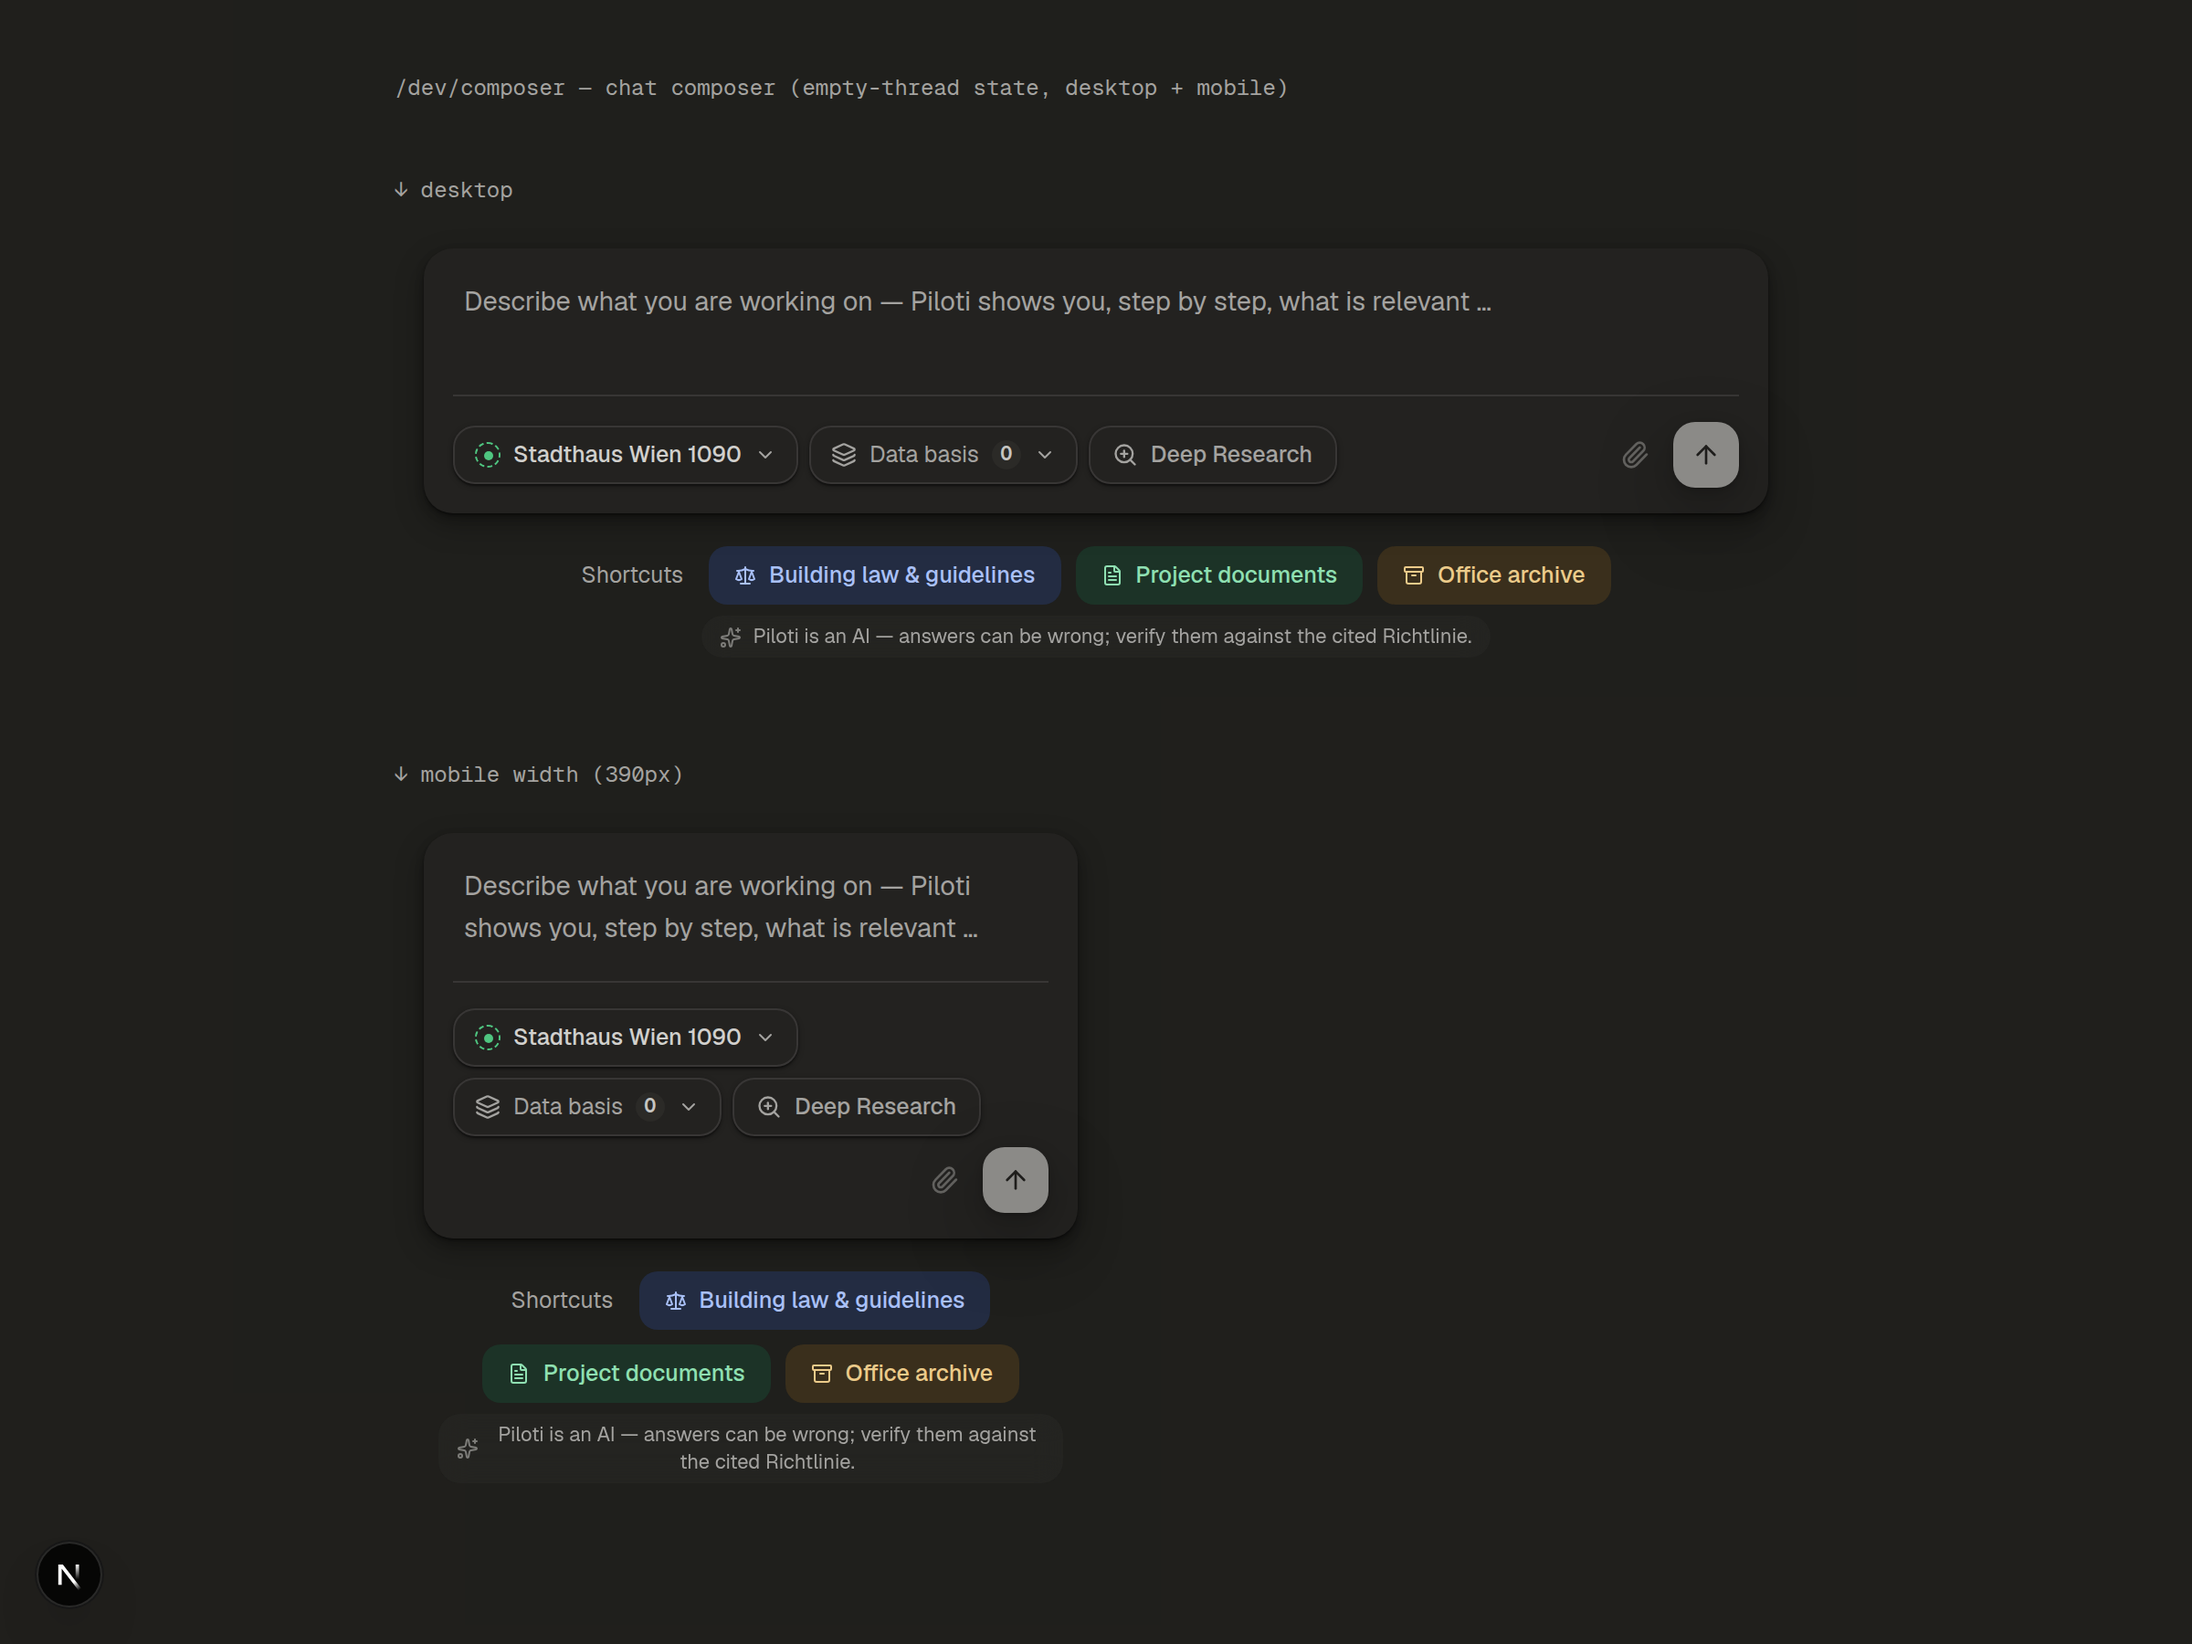
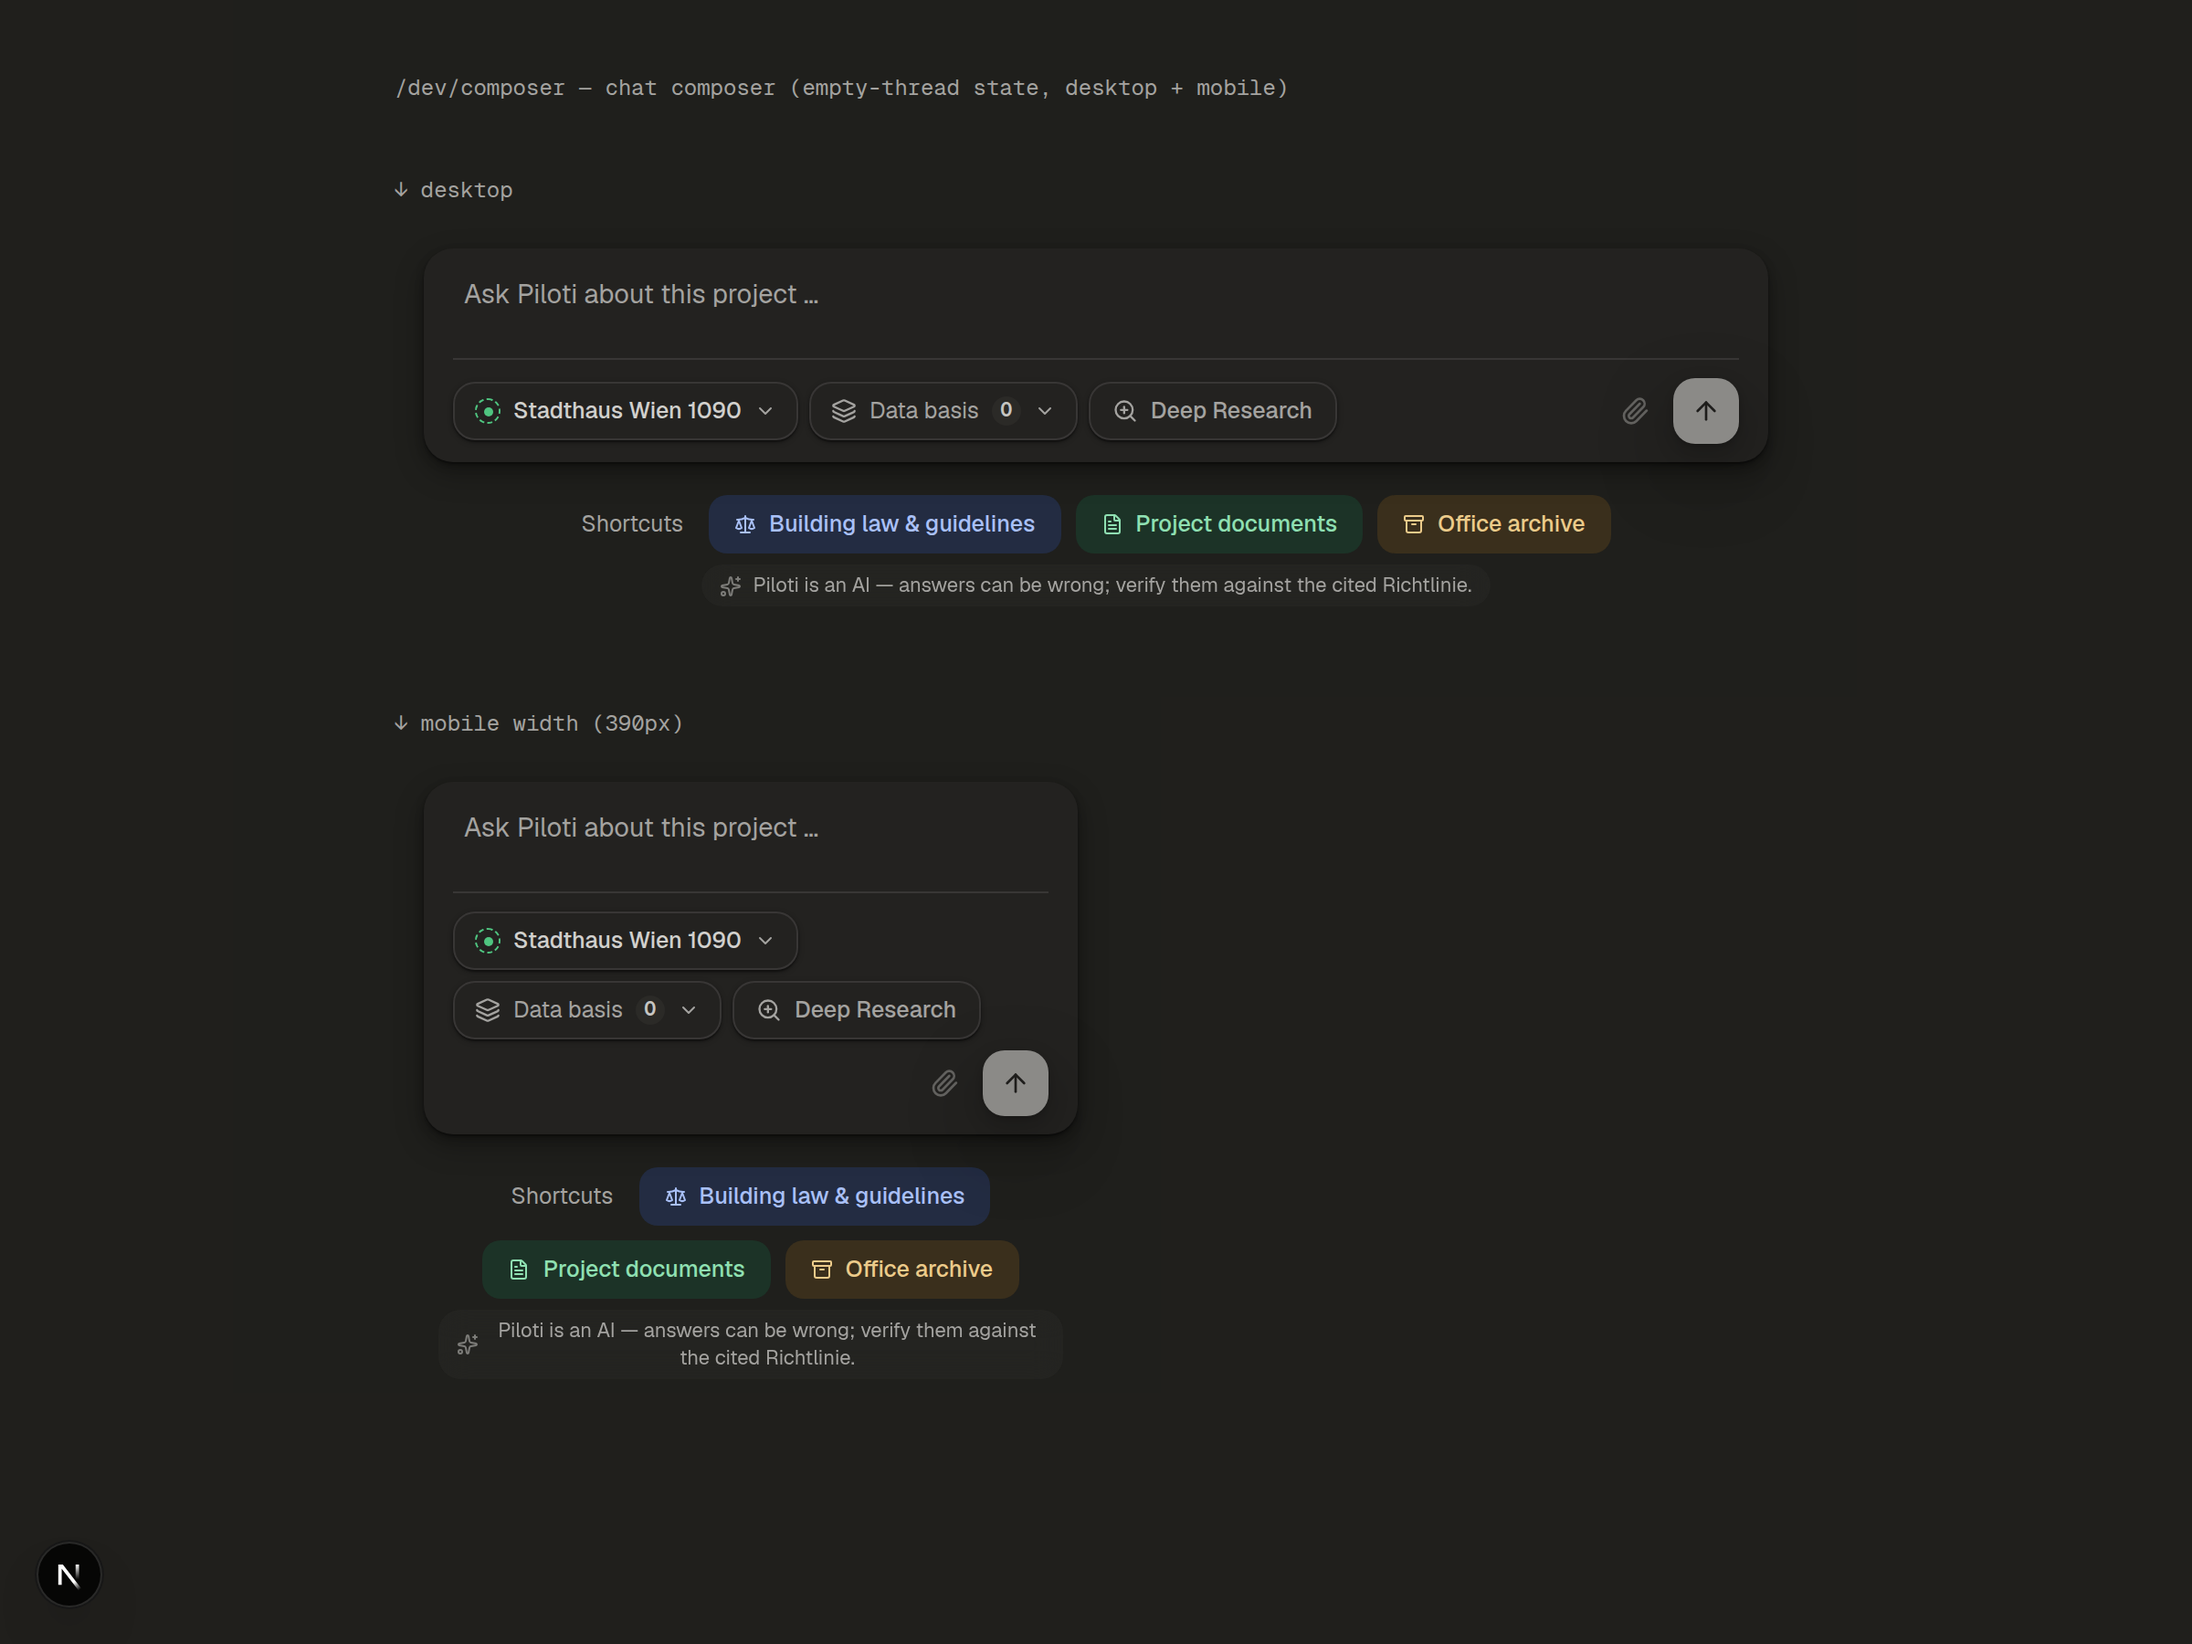
polish(chat): make the mobile composer compact — it was vertically too big
The composer ate far too much vertical space on mobile. Several fixes, all
gated so desktop is unchanged:

- Placeholder was a full paragraph that wrapped to three lines. Shortened to a
  one-line hint ("Ask Piloti about this project …") in both locales — better UX
  and no multi-line placeholder height.
- Attached files stacked one-per-row (three files = three rows). Now a single
  horizontal-scroll strip that stays one row at any file count.
- The bottom control row wrapped the attach/send cluster onto a second line on a
  narrow composer. Secondary control labels already collapse to icons on mobile;
  the redundant manage-files button (the inline chips already do status + retry +
  remove) is now hidden on mobile too, so the whole row fits on one line.
- Shortcut preset chips (a desktop affordance) are hidden on mobile, where they
  only added bulk under the composer.
- Tighter textarea min-height, card padding, and control-row spacing.

Adds a `/dev/composer-files` preview (composer with ready/ingesting/failed files
seeded backend-free) + screenshot evidence.

Claude-Session: https://claude.ai/code/session_01TvaypjQbHY7fTapRAbBdjU

diff --git a/frontends/ui/src/features/layout/components/InputArea.tsx b/frontends/ui/src/features/layout/components/InputArea.tsx
@@ -272,7 +272,7 @@ const FileChip: FC<{
   return (
     <span
       className={cn(
-        'bg-card inline-flex h-7 max-w-[200px] items-center gap-1.5 rounded-md border px-2 text-[12px]',
+        'bg-card inline-flex h-7 max-w-[200px] shrink-0 items-center gap-1.5 rounded-md border px-2 text-[12px]',
         isFailed && 'border-error/50'
       )}
       title={`${file.fileName} — ${statusTitle}`}
@@ -762,7 +762,7 @@ export const InputArea: FC<InputAreaProps> = memo(function InputArea({
           // chat plane). No hard border — the field reads as a calm surface, and
           // focus is signalled by a subtle focus-within ring instead of an
           // outline. Textarea on top, hairline-separated control row below.
-          'bg-card focus-within:ring-ring/40 relative flex flex-col rounded-xl px-4 py-[14px] shadow-sm transition-[box-shadow,border-color] duration-200 ease-out focus-within:ring-2',
+          'bg-card focus-within:ring-ring/40 relative flex flex-col rounded-xl px-4 py-2.5 shadow-sm transition-[box-shadow,border-color] duration-200 ease-out focus-within:ring-2',
           isDisabledByAuth && 'opacity-60',
           isDragging && isUnsupportedDrag
             ? 'border-2 border-error border-dashed'
@@ -802,7 +802,10 @@ export const InputArea: FC<InputAreaProps> = memo(function InputArea({
         {/* Inline file chips — one per attached file, above the textarea.
             Live status dot/spinner, retry on failure, ✕ to remove. */}
         {sessionFiles.length > 0 && (
-          <div className="mb-2 flex flex-wrap gap-1.5" aria-label={t('inputArea.manageFiles')}>
+          <div
+            className="mb-2 flex gap-1.5 overflow-x-auto pb-0.5 [-ms-overflow-style:none] [scrollbar-width:none] [&::-webkit-scrollbar]:hidden"
+            aria-label={t('inputArea.manageFiles')}
+          >
             {sessionFiles.map((file) => (
               <FileChip
                 key={file.id}
@@ -819,7 +822,7 @@ export const InputArea: FC<InputAreaProps> = memo(function InputArea({
           ref={textareaRef}
           // text-base (16px) below md keeps iOS Safari from zooming the page
           // when the composer gains focus; desktop keeps the tighter 14.5px.
-          className="max-h-52 min-h-[52px] resize-none border-0 bg-transparent px-1.5 py-1 text-base leading-[1.55] shadow-none focus-visible:ring-0 md:text-[14.5px]"
+          className="max-h-52 min-h-[40px] resize-none border-0 bg-transparent px-1.5 py-1 text-base leading-[1.5] shadow-none focus-visible:ring-0 md:text-[14.5px]"
           value={message}
           onChange={(e) => handleValueChange(e.target.value)}
           onKeyDown={handleKeyDown}
@@ -862,7 +865,7 @@ export const InputArea: FC<InputAreaProps> = memo(function InputArea({
         {/* Bottom control row — hairline-separated from the textarea.
             Order per the click dummy: scope · Datengrundlage · Deep-Research,
             then attach + send pushed right. */}
-        <div className="mt-[14px] flex flex-wrap items-center gap-1.5 border-t pt-[14px]">
+        <div className="mt-2.5 flex flex-wrap items-center gap-1.5 border-t pt-2.5">
           {/* Scope chip — current project; cross-project is honestly disabled.
               Dashed status-active dot + label + chevron (dummy composer). */}
           <Popover>
@@ -877,7 +880,7 @@ export const InputArea: FC<InputAreaProps> = memo(function InputArea({
                 <span className="border-status-active flex size-[14px] shrink-0 items-center justify-center rounded-full border border-dashed">
                   <span className="bg-status-active size-[5px] rounded-full" />
                 </span>
-                <span className="text-foreground/85 max-w-44 truncate text-[12.5px] font-medium">
+                <span className="text-foreground/85 hidden max-w-44 truncate text-[12.5px] font-medium sm:inline">
                   {scopeLabel}
                 </span>
                 <ChevronDown className="text-muted-foreground size-3 shrink-0" aria-hidden="true" />
@@ -932,7 +935,7 @@ export const InputArea: FC<InputAreaProps> = memo(function InputArea({
                 className="bg-card text-muted-foreground shadow-xs hover:bg-accent focus-visible:ring-ring/50 inline-flex h-8 shrink-0 items-center gap-[7px] rounded-lg border px-[11px] text-[12.5px] transition-colors focus-visible:outline-none focus-visible:ring-2 disabled:cursor-not-allowed disabled:opacity-50"
               >
                 <Layers className="size-3.5 shrink-0" aria-hidden="true" />
-                <span>{tChat('composer.sources')}</span>
+                <span className="hidden sm:inline">{tChat('composer.sources')}</span>
                 <span className="bg-muted text-foreground/80 inline-flex h-4 min-w-4 items-center justify-center rounded-md px-1 text-[10.5px] font-semibold tabular-nums">
                   {enabledSourcesCount}
                 </span>
@@ -976,7 +979,7 @@ export const InputArea: FC<InputAreaProps> = memo(function InputArea({
             )}
           >
             <ZoomIn className="size-3.5" aria-hidden="true" />
-            <span>{tChat('composer.deepResearch')}</span>
+            <span className="hidden sm:inline">{tChat('composer.deepResearch')}</span>
           </button>
 
           {/* Right Actions: manage-files, attach, submit — pushed right */}
@@ -990,7 +993,11 @@ export const InputArea: FC<InputAreaProps> = memo(function InputArea({
                   <Button
                     variant="ghost"
                     size="sm"
-                    className="text-muted-foreground h-8 rounded-lg px-2.5"
+                    // Redundant with the inline file chips (status + retry + remove)
+                    // on a narrow composer — hidden on mobile so the action row
+                    // stays one clean line; the FileSourcesTab dialog it opens
+                    // (browse + upload zone) remains available on wider viewports.
+                    className="text-muted-foreground hidden h-8 rounded-lg px-2.5 sm:inline-flex"
                     disabled={isDisabledByAuth || !knowledgeLayerAvailable}
                     aria-label={t('inputArea.manageFilesCount', { count: attachedFilesCount })}
                     title={
@@ -1164,7 +1171,9 @@ export const InputArea: FC<InputAreaProps> = memo(function InputArea({
           sources in the store — see lib/source-presets.ts. */}
       {isEmptyThread && !isDisabledByAuth && (
         <div
-          className="mt-[18px] flex flex-wrap items-center justify-center gap-2"
+          // Shortcuts are a desktop affordance — hidden on mobile, where they
+          // only add vertical bulk under an already space-constrained composer.
+          className="mt-[18px] hidden flex-wrap items-center justify-center gap-2 sm:flex"
           role="group"
           aria-label={tChat('shortcuts.label')}
         >

diff --git a/frontends/ui/src/app/dev/composer-files/page.tsx b/frontends/ui/src/app/dev/composer-files/page.tsx
@@ -1,0 +1,97 @@
+'use client'
+
+/**
+ * Composer file-state dev preview: the REAL InputArea with files attached, so
+ * the file-input surface (inline FileChips above the textarea, the manage-files
+ * button, per-file status/retry/remove) can be reviewed and screenshotted at
+ * desktop + mobile. Seeds a fake conversation + tracked files into the stores in
+ * an effect (backend-free). Not linked anywhere; 404s outside development.
+ */
+
+import { useEffect } from 'react'
+import { notFound } from 'next/navigation'
+import { AppConfigProvider, type AppConfig } from '@/shared/context'
+import { getFileUploadConfigFromEnv } from '@/shared/config/file-upload'
+import { InputArea } from '@/features/layout/components'
+import { useChatStore } from '@/features/chat'
+import { useDocumentsStore, type TrackedFile } from '@/features/documents'
+
+const CONV_ID = 'dev-files-conv'
+
+const config: AppConfig = {
+  authRequired: false,
+  fileUpload: getFileUploadConfigFromEnv(),
+}
+
+const files: TrackedFile[] = [
+  {
+    id: 'f1',
+    fileName: 'Einreichplan_EG.pdf',
+    fileSize: 2_400_000,
+    status: 'success',
+    progress: 100,
+    collectionName: CONV_ID,
+  },
+  {
+    id: 'f2',
+    fileName: 'Baubeschreibung_2024_final.docx',
+    fileSize: 840_000,
+    status: 'ingesting',
+    progress: 60,
+    collectionName: CONV_ID,
+  },
+  {
+    id: 'f3',
+    fileName: 'Energieausweis.pdf',
+    fileSize: 1_200_000,
+    status: 'failed',
+    progress: 0,
+    collectionName: CONV_ID,
+    errorMessage: 'Ingestion failed',
+  },
+]
+
+export default function ComposerFilesPreviewPage() {
+  if (process.env.NODE_ENV !== 'development') {
+    notFound()
+  }
+
+  useEffect(() => {
+    useChatStore.setState({
+      currentConversation: {
+        id: CONV_ID,
+        userId: 'dev',
+        projectId: 'dev',
+        title: 'Dev',
+        messages: [],
+        createdAt: new Date('2024-01-15'),
+        updatedAt: new Date('2024-01-15'),
+      },
+    })
+    useDocumentsStore.setState({ trackedFiles: files })
+  }, [])
+
+  return (
+    <AppConfigProvider config={config}>
+      <main className="min-h-dvh bg-muted/30 px-4 py-10">
+        <div className="mx-auto flex w-full max-w-3xl flex-col gap-10">
+          <h1 className="font-mono text-xs text-muted-foreground" data-testid="composer-files-preview">
+            /dev/composer-files — composer with attached files (desktop + mobile)
+          </h1>
+
+          <div>
+            <div className="mb-2 font-mono text-xs text-muted-foreground">↓ desktop</div>
+            <InputArea isAuthenticated connectionMode="sse" projectName="Stadthaus Wien 1090" />
+          </div>
+
+          <div>
+            <div className="mb-2 font-mono text-xs text-muted-foreground">↓ mobile width (390px)</div>
+            <div className="w-[390px] max-w-full">
+              <InputArea isAuthenticated connectionMode="sse" projectName="Stadthaus Wien 1090" />
+            </div>
+          </div>
+        </div>
+      </main>
+    </AppConfigProvider>
+  )
+}

diff --git a/frontends/ui/src/i18n/dictionaries/de/chat.ts b/frontends/ui/src/i18n/dictionaries/de/chat.ts
@@ -34,8 +34,7 @@ export const chat: typeof en.chat = {
     openAria: 'Dokument öffnen: {label}',
   },
   composer: {
-    placeholder:
-      'Beschreiben Sie, woran Sie gerade arbeiten — Piloti zeigt Ihnen Schritt für Schritt, was dafür relevant ist …',
+    placeholder: 'Fragen Sie Piloti zu diesem Projekt …',
     sources: 'Datengrundlage',
     sourcesAria: 'Datengrundlage – {enabled} von {total} Quellen aktiv. Öffnet die Datenquellen.',
     deepResearch: 'Deep Research',

diff --git a/frontends/ui/src/i18n/dictionaries/en/chat.ts b/frontends/ui/src/i18n/dictionaries/en/chat.ts
@@ -41,8 +41,7 @@ export const chat = {
   },
   // Composer (InputArea) control row — WS-3 click-dummy overhaul.
   composer: {
-    placeholder:
-      'Describe what you are working on — Piloti shows you, step by step, what is relevant …',
+    placeholder: 'Ask Piloti about this project …',
     sources: 'Data basis',
     sourcesAria: 'Data basis — {enabled} of {total} sources enabled. Opens the data sources panel.',
     deepResearch: 'Deep Research',

diff --git a/frontends/ui/src/features/layout/components/InputArea.spec.tsx b/frontends/ui/src/features/layout/components/InputArea.spec.tsx
@@ -218,9 +218,7 @@ describe('InputArea', () => {
     render(<InputArea isAuthenticated={true} />)
 
     expect(
-      screen.getByPlaceholderText(
-        'Describe what you are working on — Piloti shows you, step by step, what is relevant …'
-      )
+      screen.getByPlaceholderText('Ask Piloti about this project …')
     ).toBeInTheDocument()
   })
 
